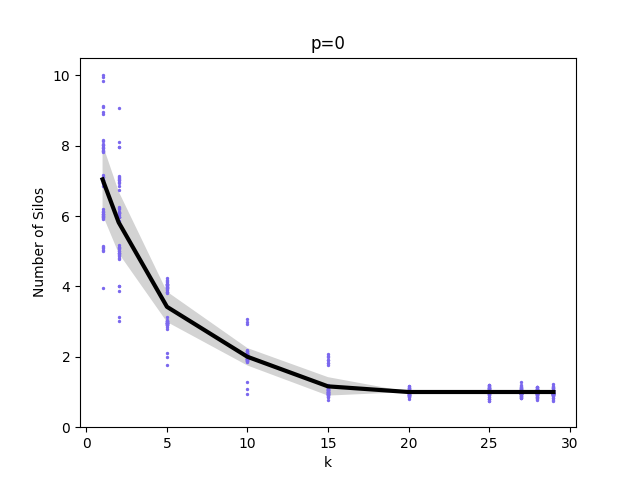
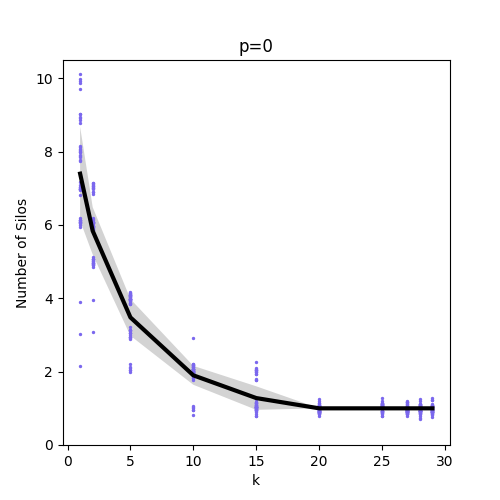
Add plotting even when generating values on Figure 3

diff --git a/figure3.py b/figure3.py
@@ -7,7 +7,6 @@ from joblib import delayed, Parallel
 import pickle
 
 if __name__ == '__main__':
-    rng = np.random.default_rng(1)
     generate = False
     save_file = 'figure3.p'
     n_replicates = 50
@@ -63,52 +62,52 @@ if __name__ == '__main__':
                         n_jobs=-1)(delayed(f)(x) 
                         for x in parameter_dict[n_agents][p_mirror][n_neighbors])
         pickle.dump(results_dict, open(save_file, 'wb'))
-    else:
-        df = pd.read_pickle('figure3.p')
-        T = 80
-        n_agents = 30
-        p = 0.0
-        k = 10
-        # Compute siloes at each time step
-        OUTPUT = []
-        for p in [0.0]:
-            for k in [1,2,5,10,15,20,25,27,28,29]:
-                for v in np.arange(50):
-                    gmm_weights_history = df[30][p][k][v]
-                    IDs = []
-                    for t in range(T+1):
-                        ids = []
-                        for i in range(n_agents):
-                            ids.append(np.argmax(gmm_weights_history[t][i]))
-                        IDs.append(ids)
-                    IDs = pd.DataFrame(IDs)
+    df = pd.read_pickle('figure3.p')
+    T = 80
+    n_agents = 30
+    p = 0.0
+    k = 10
+    # Compute siloes at each time step
+    OUTPUT = []
+    for p in [0.0]:
+        for k in [1,2,5,10,15,20,25,27,28,29]:
+            for v in np.arange(50):
+                gmm_weights_history = df[30][p][k][v]
+                IDs = []
+                for t in range(T+1):
+                    ids = []
+                    for i in range(n_agents):
+                        ids.append(np.argmax(gmm_weights_history[t][i]))
+                    IDs.append(ids)
+                IDs = pd.DataFrame(IDs)
 
-                    output = [p,k,v,len(set(IDs.iloc[-1])),len(set(IDs.iloc[-2])),len(set(IDs.iloc[-3])),len(set(IDs.iloc[-4]))
-                              ,len(set(IDs.iloc[-5])),np.sum(IDs.iloc[-1]==IDs.iloc[-2])/n_agents,np.sum(IDs.iloc[-2]==IDs.iloc[-3])/n_agents
-                              ,np.sum(IDs.iloc[-3]==IDs.iloc[-4])/n_agents,np.sum(IDs.iloc[-4]==IDs.iloc[-5])/n_agents]
-                    OUTPUT.append(output)
-        stat = pd.DataFrame(OUTPUT)
-        stat.columns = ['p','k','Replicate','#Silos_T','#Silos_T-1','#Silos_T-2','#Silos_T-3','#Silos_T-4'
-                ,'Stability_T','Stability_T-1','Stability_T-2','Stability_T-3']
+                output = [p,k,v,len(set(IDs.iloc[-1])),len(set(IDs.iloc[-2])),len(set(IDs.iloc[-3])),len(set(IDs.iloc[-4]))
+                          ,len(set(IDs.iloc[-5])),np.sum(IDs.iloc[-1]==IDs.iloc[-2])/n_agents,np.sum(IDs.iloc[-2]==IDs.iloc[-3])/n_agents
+                          ,np.sum(IDs.iloc[-3]==IDs.iloc[-4])/n_agents,np.sum(IDs.iloc[-4]==IDs.iloc[-5])/n_agents]
+                OUTPUT.append(output)
+    stat = pd.DataFrame(OUTPUT)
+    stat.columns = ['p','k','Replicate','#Silos_T','#Silos_T-1','#Silos_T-2','#Silos_T-3','#Silos_T-4'
+            ,'Stability_T','Stability_T-1','Stability_T-2','Stability_T-3']
 
-        # Plot
-        df1 = stat[stat['p'] == 0]
-        K = df1['k'].values
-        Silos = df1['#Silos_T'].values + np.random.normal(0,0.1,len(K))
-        mean = pd.DataFrame(np.array(df1.groupby('k').agg({'#Silos_T':'mean'})))[0].values
-        se = pd.DataFrame(np.array(df1.groupby('k').agg({'#Silos_T':'std'})/np.sqrt(50)))[0].values
-        print(5*se)
-        top = mean + 5*se
-        bottom = mean - 5*se
-
-        plt.plot([1,2,5,10,15,20,25,27,28,29], mean, 'k-', linewidth=3)
-        plt.fill_between([1,2,5,10,15,20,25,27,28,29], bottom, top, facecolor='lightgray')
-        plt.scatter(K, Silos, c='mediumslateblue', s=2)
-        plt.ylim(0,10.5)
-        plt.title('p=0')
-        plt.xlabel('k')
-        plt.ylabel('Number of Silos')
-        plt.savefig('figure3.png')
-        plt.show()
+    # Plot
+    df1 = stat[stat['p'] == 0]
+    K = df1['k'].values
+    Silos = df1['#Silos_T'].values + np.random.normal(0,0.1,len(K))
+    mean = pd.DataFrame(np.array(df1.groupby('k').agg({'#Silos_T':'mean'})))[0].values
+    se = pd.DataFrame(np.array(df1.groupby('k').agg({'#Silos_T':'std'})/np.sqrt(50)))[0].values
+    print(5*se)
+    top = mean + 5*se
+    bottom = mean - 5*se
+    
+    plt.figure(figsize=(5,5))
+    plt.plot([1,2,5,10,15,20,25,27,28,29], mean, 'k-', linewidth=3)
+    plt.fill_between([1,2,5,10,15,20,25,27,28,29], bottom, top, facecolor='lightgray')
+    plt.scatter(K, Silos, c='mediumslateblue', s=2)
+    plt.ylim(0,10.5)
+    plt.title('p=0')
+    plt.xlabel('k')
+    plt.ylabel('Number of Silos')
+    plt.savefig('figure3.png')
+    plt.show()
 
         
